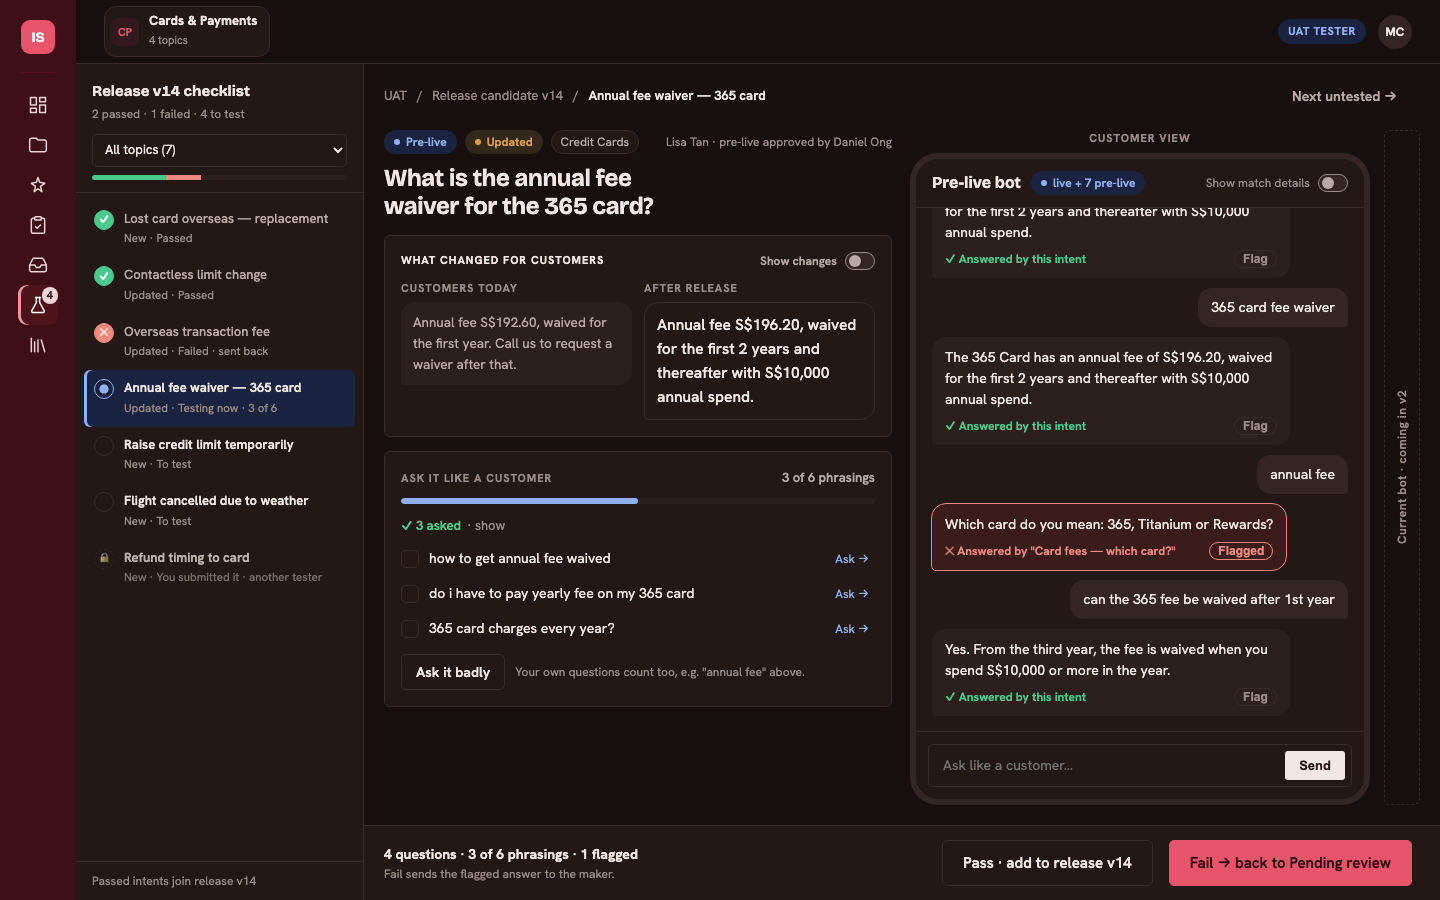
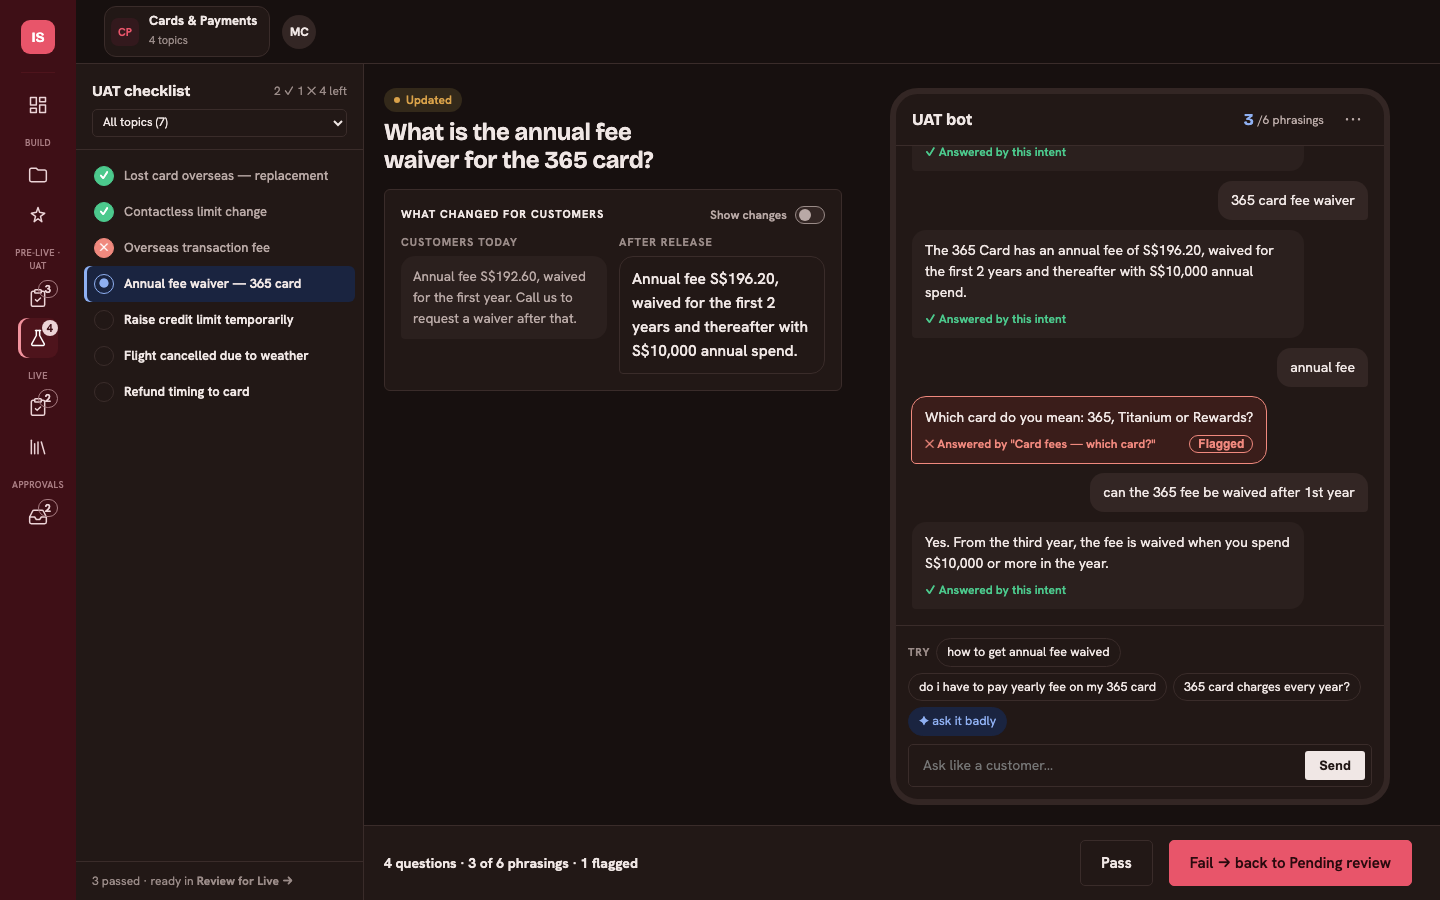
design(uat): lean Test page — phrasing pills in bot, decluttered layout
Claude-Session: https://claude.ai/code/session_0118dYKHurDLsxt3MXXKWWjQ

diff --git a/mockups/declutter/d.html b/mockups/declutter/d.html
@@ -1,6 +1,6 @@
 <!doctype html>
 <html lang="en"><head><meta charset="utf-8"><meta name="viewport" content="width=device-width,initial-scale=1">
-<title>UAT Proof Screen</title>
+<title>UAT Declutter</title>
 <link rel="preconnect" href="https://fonts.googleapis.com"><link rel="preconnect" href="https://fonts.gstatic.com" crossorigin>
 <link href="https://fonts.googleapis.com/css2?family=Bricolage+Grotesque:opsz,wght@12..96,500..700&family=Hanken+Grotesk:wght@400..700&family=JetBrains+Mono:wght@400;500&display=swap" rel="stylesheet">
 <style>
@@ -319,7 +319,7 @@ h1{font-size:28px;line-height:1.18;margin-top:10px}
 <body>
 <script>
   const p=new URLSearchParams(location.search);
-  document.body.classList.add('v-'+(p.get('v')||'mix'),'q-panel','dc');if(p.get('open'))document.body.classList.add('open');
+  document.body.classList.add('v-'+(p.get('v')||'mix'),'q-panel',...(p.get('d')==='lean'?['dc']:p.get('d')==='min'?['dc','dm']:[]));if(p.get('open'))document.body.classList.add('open');
   addEventListener('load',()=>{const bb=document.querySelector('.bb');bb.scrollTop=bb.scrollHeight});
   if(p.get('diff')==='1')document.body.classList.add('diff-on');
   if(p.get('theme')==='dark')document.documentElement.classList.add('dark');
@@ -397,7 +397,7 @@ h1{font-size:28px;line-height:1.18;margin-top:10px}
             <div class="q">can the 365 fee be waived after 1st year</div>
             <div class="a">Yes. From the third year, the fee is waived when you spend S$10,000 or more in the year.<div class="m ok">✓ Answered by this intent<button class="fl">Flag</button></div><div class="md">match 0.91 · runner-up "Card fees — which card?" 0.42</div></div>
           </div>
-          <div class="bf"><div class="sugg dc-only" id="pills"></div><form class="comp"><input aria-label="Ask like a customer" placeholder="Ask like a customer…"><button class="send">Send</button></form></div>
+          <div class="bf"><div class="sugg dc-only"><button class="chip run" id="runAll">▶ Run remaining <span id="remN">3</span></button><button class="chip ghost" id="badly">✦ Ask it badly</button><span class="pc">Tab ⇥ fills the next phrasing</span></div><form class="comp"><input aria-label="Ask like a customer" placeholder="Ask like a customer…"><button class="send">Send</button></form></div>
         </div>
       </section>
 
@@ -450,13 +450,15 @@ $('#pass').onclick=()=>{d.classList.add('decided');mark('pass','Passed','✓');$
 function mark(k,t,sym){const c=document.querySelector('.qi.cur');if(!c)return;c.classList.add(k);c.querySelector('.st').textContent=sym;const sm=c.querySelector('small');sm.textContent=sm.textContent.split(' · ')[0]+' · '+t}
 
 const remaining=()=>[...document.querySelectorAll('.ut:not(.done)')];
-function renderPills(){const box=document.getElementById('pills');const r=remaining();
-  box.innerHTML=r.length?'<span class="sl2">Try</span>':'<span class="sl2">All phrasings tried · keep asking your own</span>';
-  r.forEach(u=>{const b=document.createElement('button');b.className='chip';b.textContent=u.querySelector('span:nth-child(2)').textContent;b.onclick=()=>{ask(b.textContent,u);renderPills()};box.appendChild(b)});
-  const bad=document.createElement('button');bad.className='chip ghost';bad.textContent='✦ ask it badly';
-  bad.onclick=()=>{const base=r.length?r[0].querySelector('span:nth-child(2)').textContent:'annual fee waiver';const i=document.querySelector('.comp input');i.value=base.replace(/annual/g,'anual').replace(/\?/g,'')+' pls';i.focus()};box.appendChild(bad);
-  const c=document.getElementById('covN');if(c)c.textContent=phr}
-renderPills();
+const inp=document.querySelector('.comp input');
+function hint(){const r=remaining();inp.placeholder=r.length?r[0].querySelector('span:nth-child(2)').textContent+'   (Tab ⇥)':'Ask like a customer…';
+  const n=document.getElementById('remN');if(n)n.textContent=r.length;const c=document.getElementById('covN');if(c)c.textContent=phr;
+  const run=document.getElementById('runAll');if(run)run.style.display=r.length?'':'none'}
+inp.addEventListener('keydown',e=>{if(e.key==='Tab'&&!inp.value){const r=remaining();if(r.length){e.preventDefault();inp.value=r[0].querySelector('span:nth-child(2)').textContent;inp.dataset.ph=r[0].dataset.i}}});
+document.querySelector('.comp').addEventListener('submit',()=>{const r=remaining();setTimeout(hint,50)},true);
+document.getElementById('runAll').onclick=()=>{remaining().forEach((u,i)=>setTimeout(()=>{ask(u.querySelector('span:nth-child(2)').textContent,u);hint()},i*900))};
+document.getElementById('badly').onclick=()=>{const r=remaining();const base=r.length?r[0].querySelector('span:nth-child(2)').textContent:'annual fee';inp.value=base.replace(/annual/g,'anual').replace(/ the /g,' ').replace(/\?/g,'')+' pls';inp.focus()};
+hint();
 sync();
 const qs=[...document.querySelectorAll('.qi')];
 function go(li){if(li.classList.contains('lock'))return;qs.forEach(x=>x.classList.remove('sel'));

diff --git a/mockups/declutter/index.html b/mockups/declutter/index.html
@@ -1,0 +1,24 @@
+<!doctype html>
+<html lang="en"><head><meta charset="utf-8"><meta name="viewport" content="width=device-width,initial-scale=1">
+<title>UAT Declutter</title>
+<style>
+:root{--bg:#eef1f0;--s:#fff;--b:#dbe4e1;--t1:#16211f;--t3:#566762}
+@media (prefers-color-scheme:dark){:root:not([data-theme="light"]){--bg:#17100f;--s:#221816;--b:#3a2c2a;--t1:#f0e7e5;--t3:#b9a9a6}}
+*{box-sizing:border-box;margin:0}
+body{font:15px/1.55 system-ui,-apple-system,sans-serif;background:var(--bg);color:var(--t1);padding:32px 40px 60px}
+h1{font-size:30px}.sub{color:var(--t3);margin:8px 0 28px;max-width:940px}
+.c{background:var(--s);border:1px solid var(--b);border-radius:12px;padding:22px;margin-bottom:28px}
+.c h2{font-size:20px;margin-bottom:6px}.c p{color:var(--t3);max-width:1040px}.c p b{color:var(--t1)}
+.pair{display:grid;grid-template-columns:1fr 1fr;gap:14px;margin-top:14px}
+a.one,.pair a{display:block;border:1px solid var(--b);border-radius:8px;overflow:hidden;margin-top:14px}.pair a{margin-top:0}
+img{display:block;width:100%}
+</style></head><body>
+<h1>Test in UAT: decluttered</h1>
+<p class="sub">Same features, far less on screen. "Ask it like a customer" now lives <b>inside the bot</b>. Click a screenshot to try it: press <b>Tab</b> in the input box, or <b>▶ Run remaining</b>.</p>
+<div class="c"><h2>Lean (recommended)</h2><p>Three columns: <b>checklist · what changed · bot</b>. Removed: the breadcrumb, the extra tags, the phrasing card, the v2 rail, the checklist sub-lines and the "Customer view" label. In the bot: the next phrasing appears as grey text in the input box (Tab fills it), <b>▶ Run remaining</b> asks every untried phrasing for you, <b>✦ Ask it badly</b> writes a messy version, and progress shows as "3/6" in the bot header. Flag only appears when you hover over an answer.</p>
+<div class="pair"><a href="d.html?d=lean"><img src="1-lean.png" alt="Lean light"></a><a href="d.html?d=lean&theme=dark"><img src="1-lean-dark.png" alt="Lean dark"></a></div>
+<a class="one" href="d.html?d=lean"><img src="1-lean-after-run.png" alt="Lean after Run remaining"></a><p style="margin-top:8px">After pressing ▶ Run remaining: 6 of 6 phrasings tried, and "Run remaining" disappears.</p></div>
+<div class="c"><h2>Minimal</h2><p>Two columns: <b>checklist · bot</b>. "What changed" is pinned at the top of the chat. This is the most compact version, but the pinned card takes space away from the conversation.</p>
+<a class="one" href="d.html?d=min"><img src="2-minimal.png" alt="Minimal"></a></div>
+<div class="c"><h2>Before: current proof screen</h2><a class="one" href="d.html"><img src="0-current.png" alt="Current"></a></div>
+</body></html>

diff --git a/docs/specs/2026-10-05-uat-tab-prd.md b/docs/specs/2026-10-05-uat-tab-prd.md
@@ -87,9 +87,9 @@ APPROVALS       Approvals (badge) → one page, categories: To UAT · To Live ·
 ### 5.1 Test in UAT (new page; nav PRE-LIVE · UAT → Test)
 
 - **Entry:** opens the test view with the first untested intent selected. There is no separate landing page.
-- **Layout:** the main nav collapses to icons on this tab only. Left to right: checklist panel, intent column, UAT bot ("Customer view"), and the "Current bot · coming in v2" rail.
+- **Layout (lean):** the main nav collapses to icons on this page only. Three columns: checklist · intent (title, the Updated or New tag, What changed) · UAT bot. There is no breadcrumb and no v2 rail on screen; the v2 current bot is reserved in code only. Who submitted and approved the intent shows as a tooltip on the title.
 - **Checklist panel**, for the whole release candidate across topics, with a topic filter:
-  - **Rows:** every intent at statuses 4–6, plus intents failed during the current release cycle.
+  - **Rows:** one line each (status disc + name); the header tally reads "2 ✓ 1 ✕ 4 left". Rows show every intent at statuses 4–6, plus intents failed during the current release cycle.
   - **Tag:** New (not in the live artefact) or Updated (same ID in the live artefact with a different answer).
   - **Status:** to test · testing now · passed · in release vN · failed · sent back.
   - Click a row to open it. "Next untested →" jumps to the next untested intent. Testing can happen in any order.
@@ -98,11 +98,11 @@ APPROVALS       Approvals (badge) → one page, categories: To UAT · To Live ·
   - **Customers today** is the intent's answer from the live artefact. For a New intent it reads "No answer today".
   - **After release** is the UAT answer.
   - **Show changes** (off by default) marks removed and added words. The diff is computed at word level in the client.
-- **Ask it like a customer:** the intent's utterances, each with "Ask →". A question counts toward the "X of N phrasings" progress when `matched_intent_id` equals this intent. Phrasings already asked collapse to "✓ N asked". Free-typed questions count as questions but don't tick a phrasing.
+- **Phrasings live inside the bot:** above the input box, every *untried* utterance of this intent appears as a quick pill ("Try"). Tapping one asks it, and the pill disappears once asked. "✦ ask it badly" puts a messy variant in the input for the tester to send or edit. Testers can always type their own question. A question counts toward "X/N phrasings" (shown in the bot header) when `matched_intent_id` equals this intent. Free-typed questions count as questions, not phrasings.
 - **UAT bot:**
   - Each answer shows "✓ Answered by this intent", or "✕ Answered by '<other intent name>'", or "No intent matched".
-  - Any answer can be **Flagged**. A "no match" answer, or an answer by a different intent, is flagged automatically.
-  - **Show match details** (off by default) shows the score and runner-up.
+  - Any answer can be **Flagged**; the Flag control appears on hover, while "Flagged" stays visible. A "no match" answer, or an answer by a different intent, is flagged automatically.
+  - **Match details** (score and runner-up) sit behind the bot's "⋯" menu, off by default.
 - **Decision bar:**
   - **Pass** is enabled once at least one answer has come from this intent.
   - The primary (filled) button is Pass when nothing is flagged and Fail when anything is flagged.

diff --git a/docs/poc/design-system.md b/docs/poc/design-system.md
@@ -64,3 +64,13 @@ The signature is fused to the core mechanic: the tester is verifying a *change*.
 ## Motion
 
 Inherits the base: `--ease-out`, about 150–200ms for state changes, and the bot's "typing…" placeholder. Every animation has a `prefers-reduced-motion` fallback. Nothing decorative.
+
+
+## Lean declutter (owner, 2026-10-05) — supersedes conflicting lines above
+
+- **Test page = three columns:** checklist · intent · UAT bot. Removed from the screen: the breadcrumb, the UAT/topic/submitter tags (who submitted is now a tooltip on the h1), the phrasing card, the "Customer view" label, the artefact pill, the v2 rail (kept in code only), and the checklist sub-lines and segmented bar.
+- **Checklist header:** title plus a one-line tally ("2 ✓ 1 ✕ 4 left"), then the topic select. Rows are one line.
+- **Phrasings in the bot:** a "TRY" row of pills above the composer, one per untried utterance (`--bg` fill, 1px `--border`, 999px radius, 12.5px). "✦ ask it badly" is a `--prelive-bg` pill. Asked pills disappear. Owner: "don't condense … show them as quick pills (proposals) then if user wants, they type in their own".
+- **Bot header:** "UAT bot", then "X/6 phrasings" (X in `--prelive`), then a "⋯" menu holding match details.
+- **Flag:** visible on hover or focus only; "Flagged" is always visible.
+- **Decision bar:** a one-line summary, then Pass / Fail. No sub-text.

diff --git a/docs/poc/LOG.md b/docs/poc/LOG.md
@@ -28,3 +28,4 @@
 - 2026-10-05T07:49:15+00:00: correction: Owner: separation of duties simplified to 'submitter for approval != approver' at each approval gate only. UAT testing has no submitter restriction (drop the locked 'you submitted it' row). Owner's status names: draft -> pending review -> pending approval to UAT -> UAT -> (passed) -> pending approval to live -> live.
 - 2026-10-05T07:53:24+00:00: stage 2 step prd-written dispatched=superpowers:brainstorming
 - 2026-10-05T09:56:57+00:00: correction: Owner: nav must show pre-live and live as parallel processes with action names; sections PRE-LIVE · UAT (Review, Test) and LIVE (Review, Library); one Approvals page with categories (To UAT / To Live / History); Review page cloned per stage; release creation lives in 'Review for Live', not in the Test page. Focus on the UAT test page first.
+- 2026-10-05T10:03:14+00:00: correction: Owner: Test page uses the Lean declutter; untried phrasings show as tappable quick pills in the bot (not condensed into 'Run remaining'); tester can type their own.
